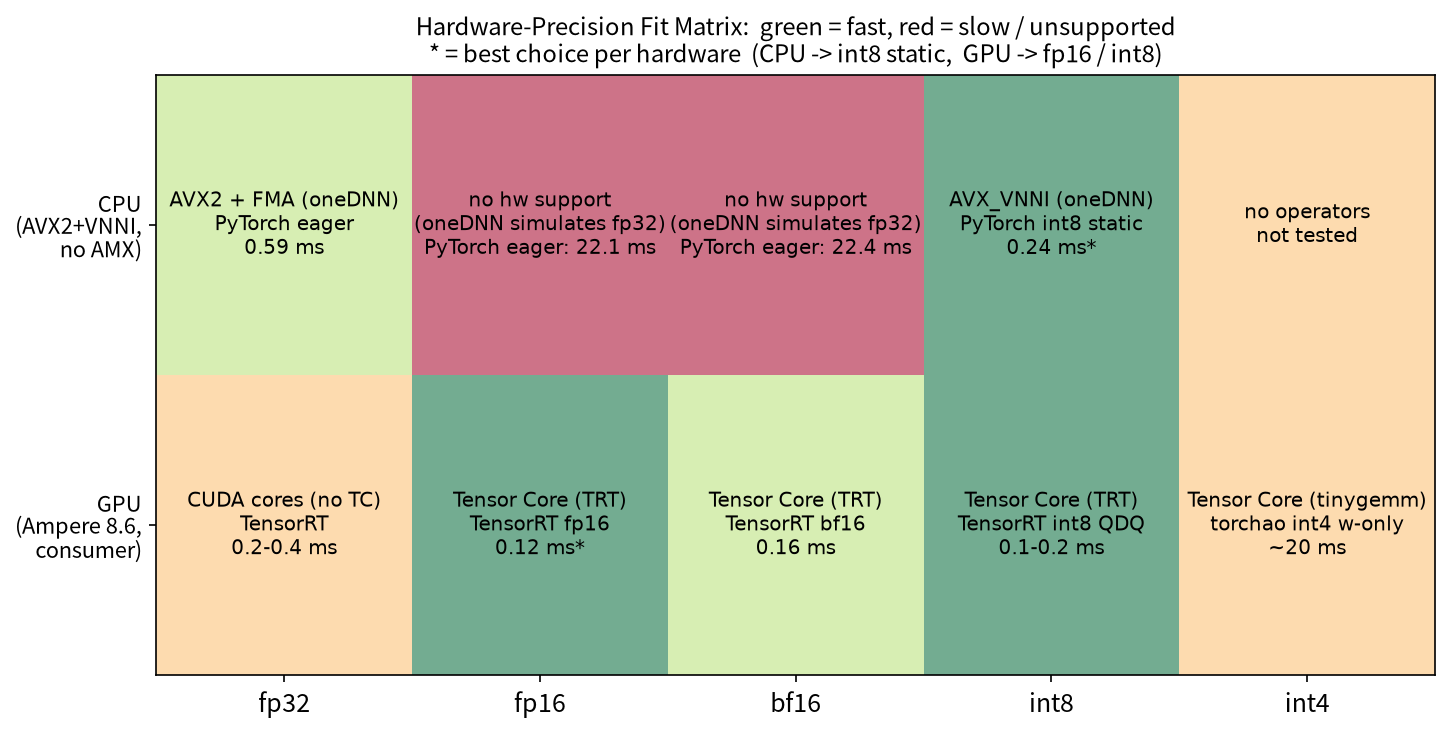
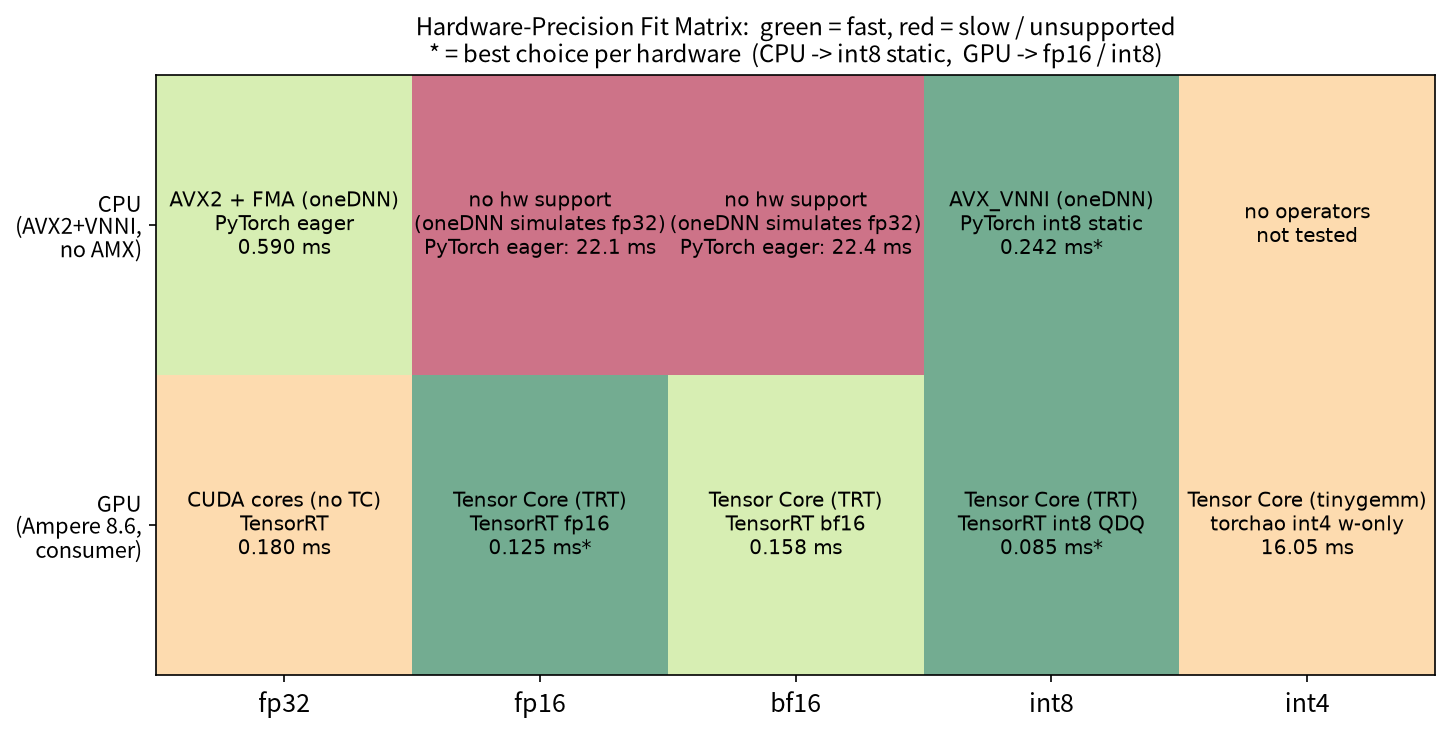
docs: 矩阵图耗时改为精确单值（250 次采样 P50 重测）

diff --git a/src/make_charts.py b/src/make_charts.py
@@ -202,16 +202,16 @@ def hw_precision_matrix():
     im = ax.imshow(data, cmap="RdYlGn", vmin=0, vmax=3, aspect="auto", alpha=0.55)
     # 统一格式：第 1 行 = 计算单元/指令集（不支持则 no hw support），
     # 第 2 行 = 测试框架，第 3 行 = 耗时
-    notes = [["AVX2 + FMA (oneDNN)\nPyTorch eager\n0.59 ms",
+    notes = [["AVX2 + FMA (oneDNN)\nPyTorch eager\n0.590 ms",
               "no hw support\n(oneDNN simulates fp32)\nPyTorch eager: 22.1 ms",
               "no hw support\n(oneDNN simulates fp32)\nPyTorch eager: 22.4 ms",
-              "AVX_VNNI (oneDNN)\nPyTorch int8 static\n0.24 ms*",
+              "AVX_VNNI (oneDNN)\nPyTorch int8 static\n0.242 ms*",
               "no operators\nnot tested"],
-             ["CUDA cores (no TC)\nTensorRT\n0.2-0.4 ms",
-              "Tensor Core (TRT)\nTensorRT fp16\n0.12 ms*",
-              "Tensor Core (TRT)\nTensorRT bf16\n0.16 ms",
-              "Tensor Core (TRT)\nTensorRT int8 QDQ\n0.1-0.2 ms",
-              "Tensor Core (tinygemm)\ntorchao int4 w-only\n~20 ms"]]
+             ["CUDA cores (no TC)\nTensorRT\n0.180 ms",
+              "Tensor Core (TRT)\nTensorRT fp16\n0.125 ms*",
+              "Tensor Core (TRT)\nTensorRT bf16\n0.158 ms",
+              "Tensor Core (TRT)\nTensorRT int8 QDQ\n0.085 ms*",
+              "Tensor Core (tinygemm)\ntorchao int4 w-only\n16.05 ms"]]
     for i in range(2):
         for j in range(5):
             ax.text(j, i, notes[i][j], ha="center", va="center", fontsize=9.5)
